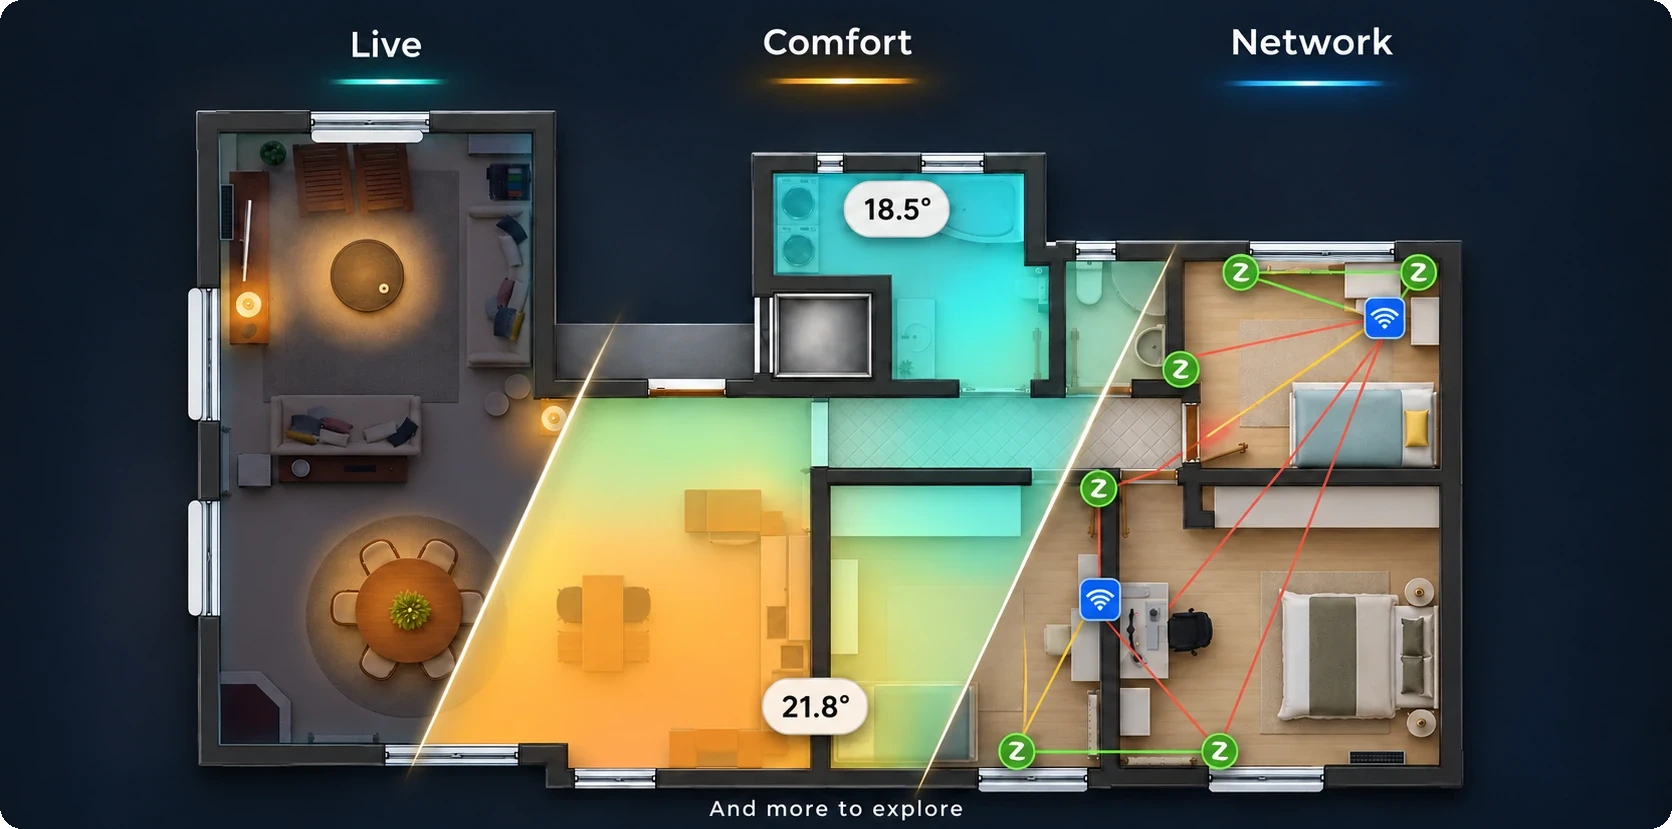
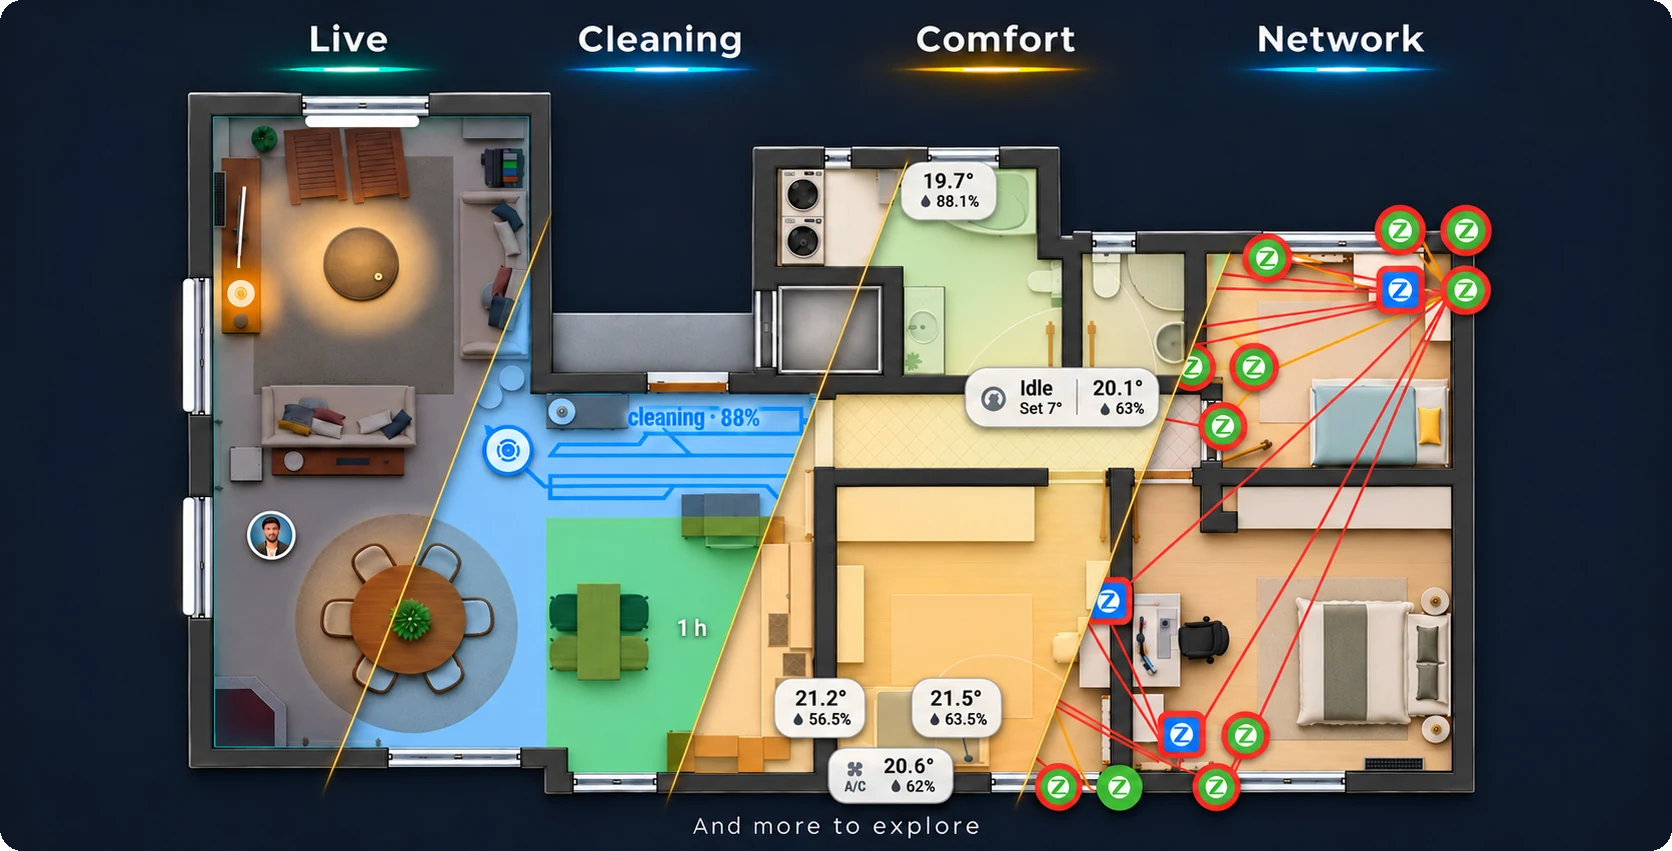
New hero image with the Cleaning overlay (README and guide)
Claude-Session: https://claude.ai/code/session_0186yEA6pTZVTBT9DsYyNQPa

diff --git a/README.md b/README.md
@@ -8,7 +8,7 @@
 [![License: MIT](https://img.shields.io/badge/license-MIT-green)](https://github.com/JohnKotrolos/ha-device-floorplan/blob/main/LICENSE)
 
 <p align="center">
-  <img src="https://raw.githubusercontent.com/JohnKotrolos/ha-device-floorplan/main/docs/public/readme/hero.webp" width="100%" alt="Live View of your house in action">
+  <img src="https://raw.githubusercontent.com/JohnKotrolos/ha-device-floorplan/main/docs/public/readme/hero.webp" width="100%" alt="Device Floorplan: Live, Cleaning, Comfort and Network overlays on one floorplan">
 </p>
 
 Put your Home Assistant devices on **your own floorplan** and see your home alive:
